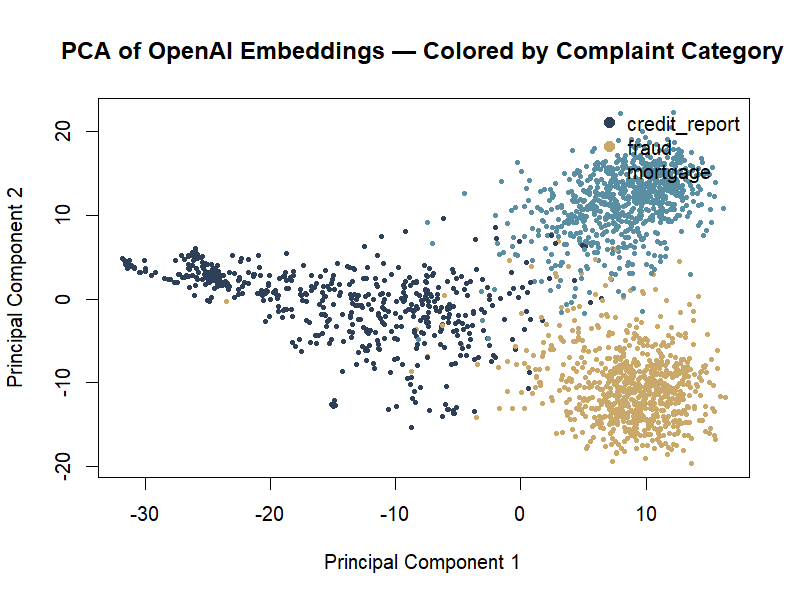
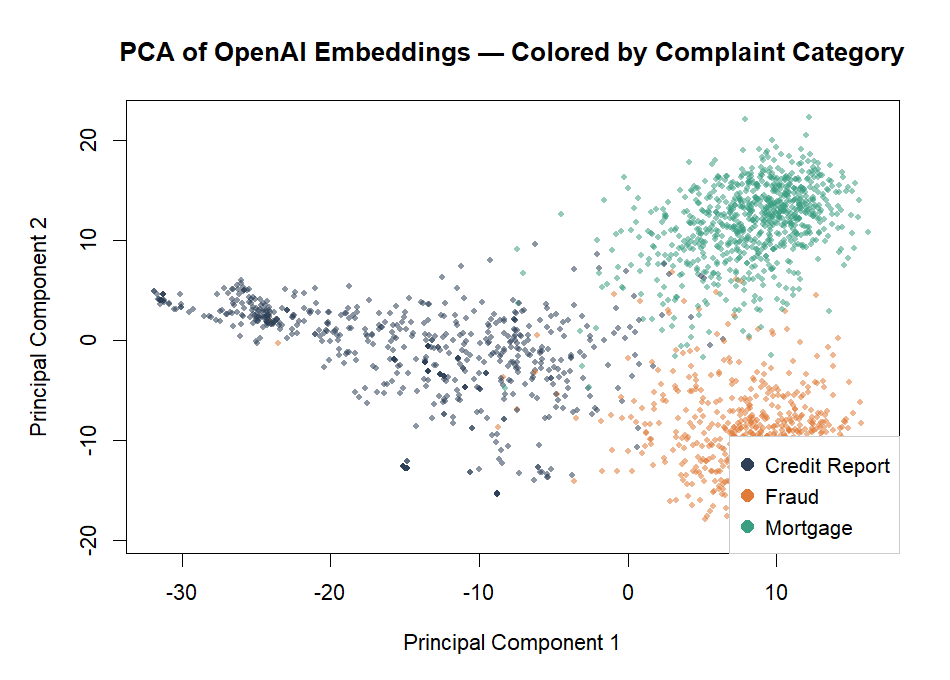
Fix overlapping labels in charts, expand README with plain language detail

diff --git a/README.md b/README.md
@@ -1,149 +1,125 @@
-# CFPB Complaint Classification
+# CFPB Consumer Complaint Classifier
 
-This project classifies consumer financial complaints from the CFPB (Consumer Financial Protection Bureau) into one of three categories using OpenAI text embeddings and decision trees in R. The question is simple: given the text of a complaint, can a model figure out what it is about?
+The Consumer Financial Protection Bureau (CFPB) is a US government agency that collects complaints from people who have problems with financial products like mortgages, credit cards, and bank accounts. Those complaints are published publicly in a database.
+
+This project takes 3,000 of those complaints and tries to automatically classify each one into the correct category using a decision tree. The three categories are mortgage complaints, credit report complaints, and fraud complaints. The interesting part is comparing two approaches: feeding the raw text features directly into the tree vs first compressing them with PCA and then training the tree. PCA cuts the error rate from 12.2% down to 3.3%.
 
 ---
 
-## Data
+## The Data
 
-3,000 complaints, 1,000 per category:
+3,000 complaints pulled from the public CFPB database, 1,000 per category:
 
-| Category | Count | What these look like |
-|---|---|---|
-| `mortgage` | 1,000 | Escrow disputes, servicer issues, refinance problems |
-| `credit_report` | 1,000 | Incorrect entries, identity disputes, FCRA violations |
-| `fraud` | 1,000 | Unauthorized charges, account takeovers, scams |
-
-Each complaint was passed through OpenAI's embedding model before this analysis. The model converts the raw text into a 1,536-dimensional numeric vector. The decision trees in this project train on those vectors, not on the raw text.
-
-| | |
+| Category | What these complaints are about |
 |---|---|
-| Total complaints | 3,000 |
-| Embedding dimensions | 1,536 |
-| Average complaint length | 143 tokens |
-| Min / Max tokens | 70 / 279 |
+| `mortgage` | Escrow disputes, servicer problems, refinancing issues, foreclosure |
+| `credit_report` | Incorrect entries on credit reports, identity disputes, FCRA violations |
+| `fraud` | Unauthorized charges, account takeovers, scam transactions |
+
+The raw complaint text is not used directly as input to the model. Instead, each complaint was first passed through OpenAI's text embedding model, which converts the words into a list of 1,536 numbers. Think of it as translating each complaint into a point in a very high-dimensional space where complaints that are about similar things end up close to each other. The decision trees in this project train on those numbers, not on the original text.
 
 ---
 
-## Step 0: Word Cloud
+## Word Cloud
 
-A word cloud of the most common terms across all 3,000 complaints. CFPB redacts personal information with strings like XXXX, so those were removed along with standard English stopwords.
-
-```r
-corpus <- Corpus(VectorSource(CFPB$message))
-corpus <- tm_map(corpus, content_transformer(tolower))
-corpus <- tm_map(corpus, removePunctuation)
-corpus <- tm_map(corpus, removeNumbers)
-corpus <- tm_map(corpus, removeWords, stopwords("english"))
-corpus <- tm_map(corpus, removeWords, c("xxxx", "xxx", "xx"))
-corpus <- tm_map(corpus, stripWhitespace)
-```
+Before any modeling, it helps to just look at what words appear most often across all 3,000 complaints. Common stopwords and CFPB's placeholder strings (like XXXX used to redact account numbers) were removed first.
 
 ![Word Cloud](charts/01_wordcloud.png)
 
-Words like *account*, *report*, *received*, and *told* come up a lot. They are generic enough to appear in all three complaint types, which is part of why a bag-of-words approach would not discriminate well between categories.
+Words like *consumer*, *information*, *report*, *section*, and *mortgage* dominate. These are broad enough to appear in all three complaint types, which is actually a hint that a simple word-counting approach would not separate the categories well. The embedding model captures meaning rather than just word frequency, which is why it works better.
 
 ---
 
 ## Step 1: Decision Tree on Raw Embedding Features
 
-The simplest approach: use all 1,536 embedding dimensions as features and train a decision tree directly on them. 80% of the data goes to training, 20% to testing.
+The simplest starting point. Take all 1,536 embedding dimensions and feed them directly into a decision tree. The data is split 80% for training and 20% for testing.
 
-```r
-set.seed(1)
-trainindex <- sample(nrow(CFPB), size = 0.8 * nrow(CFPB))
-CFPB_train <- CFPB[trainindex, ]
-CFPB_test  <- CFPB[-trainindex, ]
+The tree is first grown fully, then pruned using cross-validation to find the size that minimizes misclassification error on held-out data. The chart below shows how error changes as tree size increases.
 
-tree_model <- tree(issue ~ ., data = CFPB_train)
-```
-
-Cross-validation to find the right tree size, then prune:
-
-```r
-cv_results   <- cv.tree(tree_model, FUN = prune.misclass)
-optimal_size <- cv_results$size[which.min(cv_results$dev)]
-pruned_tree  <- prune.misclass(tree_model, best = optimal_size)
-```
+**Cross-validation curve:**
 
 ![CV Raw Tree](charts/02_cv_raw_tree.png)
 
+The error bottoms out and then starts creeping back up as the tree gets too large and starts memorizing the training data rather than learning general patterns. The dashed line marks the optimal size.
+
+**The pruned tree:**
+
 ![Pruned Raw Tree](charts/03_pruned_raw_tree.png)
+
+Each internal node shows a split condition like `X746 < -0.00184`. These variable names (X746, X1071, etc.) refer to specific dimensions in the 1,536-dimensional embedding space. They do not have human-readable names because embeddings are not designed to be interpretable that way — each dimension is a learned combination of patterns across thousands of words.
+
+**Confusion matrix:**
 
 ![Confusion Matrix Raw](charts/04_confusion_raw.png)
 
-**Raw features tree results:**
+Reading the confusion matrix: the diagonal shows correct predictions. Off-diagonal cells are mistakes. Fraud is the hardest category — 42 out of 201 fraud complaints get misclassified, mostly confused with mortgage or credit report. That is a 20.9% fraud miss rate.
+
+**Raw features results:**
 - Overall error rate: **12.2%**
-- Fraud miss rate: **20.9%** (about 1 in 5 fraud complaints get misclassified)
+- Fraud miss rate: **20.9%** — about 1 in 5 fraud complaints get incorrectly classified
+
+---
+
+## Why 1,536 Features is a Problem
+
+A decision tree works by finding the best split at each node. With 1,536 dimensions to choose from, many of which are highly correlated (similar embedding dimensions tend to move together), the tree wastes splits on noisy or redundant features. It ends up making many small distinctions that do not generalize to new data.
+
+The fix is to compress the 1,536 dimensions down to a smaller set of dimensions that capture most of the useful variation. That is what PCA does.
 
 ---
 
 ## Step 2: PCA, then Decision Tree
 
-1,536 features is a lot of correlated dimensions for a single tree to work through. PCA compresses them into a smaller set of uncorrelated components. The cutoff used here is 50% of total variance explained.
+PCA (Principal Component Analysis) takes the 1,536 embedding dimensions and creates a new set of dimensions called principal components. Each principal component is a direction in the data that captures as much variation as possible, and they are uncorrelated with each other by construction. You can then keep only the first N components that together explain enough of the total variance.
 
-```r
-pca_result     <- prcomp(embedding_features, center = TRUE, scale = TRUE)
-PVE            <- pca_result$sdev^2 / sum(pca_result$sdev^2)
-num_components <- which(cumsum(PVE) >= 0.5)[1]  # 29 components
-```
+The chart below shows how many components are needed to reach 50% of the total variance explained:
 
 ![PCA Variance](charts/05_pca_variance.png)
 
-29 components get us to 50% of the variance. The tree then trains on those 29 features.
+The curve flattens quickly. Just 29 components out of 1,536 get us to 50% of the variance. This means most of the information in the original 1,536 dimensions can be summarized in 29 numbers. The rest is mostly noise.
 
-```r
-train_pca <- data.frame(
-  issue = CFPB_train$issue,
-  pca_result$x[, 1:num_components]
-)
-tree_pca        <- tree(issue ~ ., data = train_pca)
-pruned_tree_pca <- prune.misclass(tree_pca, best = optimal_size_pca)
-```
+**Cross-validation on PCA features:**
 
 ![CV PCA Tree](charts/06_cv_pca_tree.png)
 
+The PCA tree converges to a much lower error faster and stays there. The optimal tree is also simpler.
+
+**The pruned PCA tree:**
+
 ![Pruned PCA Tree](charts/07_pruned_pca_tree.png)
+
+This tree is far simpler than the raw one. It only needs two splits: first on PC1 (the single most important direction in the embedding space), then on PC2. If PC1 is below a threshold, the complaint is classified as credit report. If not, PC2 determines whether it is fraud or mortgage. Clean and interpretable.
+
+**Confusion matrix:**
 
 ![Confusion Matrix PCA](charts/08_confusion_pca.png)
 
-**PCA tree results:**
+Almost everything lands on the diagonal. Mortgage complaints in particular are perfectly classified — 200 out of 200. Fraud misses drop from 42 to just 8.
+
+**PCA results:**
 - Overall error rate: **3.3%**
-- Fraud miss rate: **4.0%** (about 1 in 25)
-
----
-
-## Results
-
-| Model | Overall Error | Fraud Miss Rate |
-|---|---|---|
-| Tree on raw embeddings (1,536 features) | 12.2% | 20.9% |
-| Tree on PCA features (29 components) | **3.3%** | **4.0%** |
-
-PCA reduces error by about 4x. With 1,536 correlated features, the tree wastes splits on noise. Reducing to 29 orthogonal components gives it cleaner signal to work with.
+- Fraud miss rate: **4.0%** — about 1 in 25
 
 ---
 
 ## PCA Scatter Plot
 
-PC1 vs PC2, colored by complaint category. The three groups separate fairly well in this space, which explains why the PCA tree performs so much better.
+Plotting the first two principal components and coloring by category shows why PCA works so well here. The three groups are already fairly well separated in just two dimensions.
 
 ![PCA Scatter](charts/09_pca_scatter.png)
 
+Credit report complaints (dark blue) cluster to the left along PC1. Mortgage (teal) and fraud (orange) sit to the right but split along PC2 — mortgage goes up, fraud goes down. That structure is exactly what the simple two-split PCA tree is exploiting.
+
 ---
 
-## How to Reproduce
+## Results Summary
 
-1. Clone the repo and place `CFPB_Complaints.csv` in the root directory.
-2. Install packages:
+| Model | Features Used | Overall Error | Fraud Miss Rate |
+|---|---|---|---|
+| Decision tree on raw embeddings | 1,536 dimensions | 12.2% | 20.9% |
+| Decision tree on PCA features | 29 components | **3.3%** | **4.0%** |
 
-```r
-install.packages(c("tm", "wordcloud", "tree"))
-```
-
-3. Run `generate_charts.R` to save all plots, then `cfpb_classification.R` for the full analysis output.
-
-**R version:** 4.3+
+Reducing from 1,536 correlated dimensions to 29 uncorrelated ones cuts the error rate by roughly 4x. The PCA tree is also much simpler and easier to understand — two splits instead of a deep branching structure.
 
 ---
 
@@ -151,9 +127,9 @@ install.packages(c("tm", "wordcloud", "tree"))
 
 ```
 cfpb-complaint-classifier/
-├── cfpb_classification.R     # full analysis
-├── generate_charts.R         # saves charts as PNGs
-├── charts/                   # chart output
+├── cfpb_classification.R      full analysis with model outputs
+├── generate_charts.R          saves all charts as PNGs
+├── charts/
 │   ├── 01_wordcloud.png
 │   ├── 02_cv_raw_tree.png
 │   ├── 03_pruned_raw_tree.png
@@ -166,4 +142,12 @@ cfpb-complaint-classifier/
 └── README.md
 ```
 
-`CFPB_Complaints.csv` is not in the repo (56 MB). The raw complaint data is publicly available through the CFPB complaint database.
+`CFPB_Complaints.csv` is not in the repo. The raw complaint data is publicly available through the [CFPB complaint database](https://www.consumerfinance.gov/data-research/consumer-complaints/).
+
+## How to Run
+
+```r
+install.packages(c("tm", "wordcloud", "tree"))
+# Then run generate_charts.R to produce the charts
+# Then run cfpb_classification.R for the full model output
+```